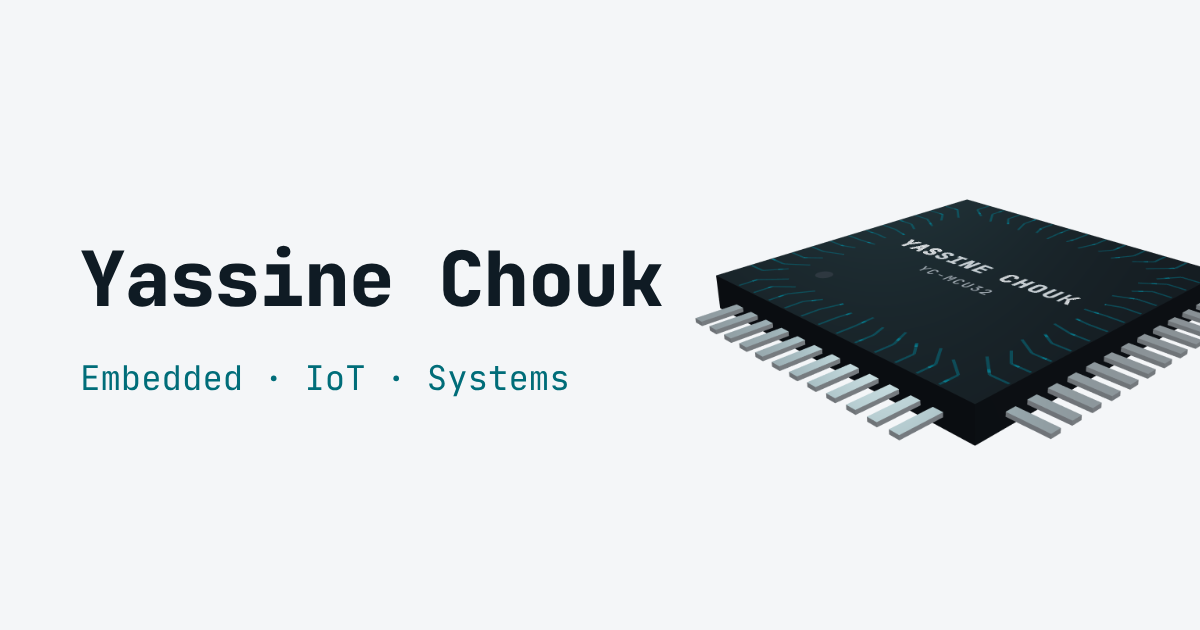
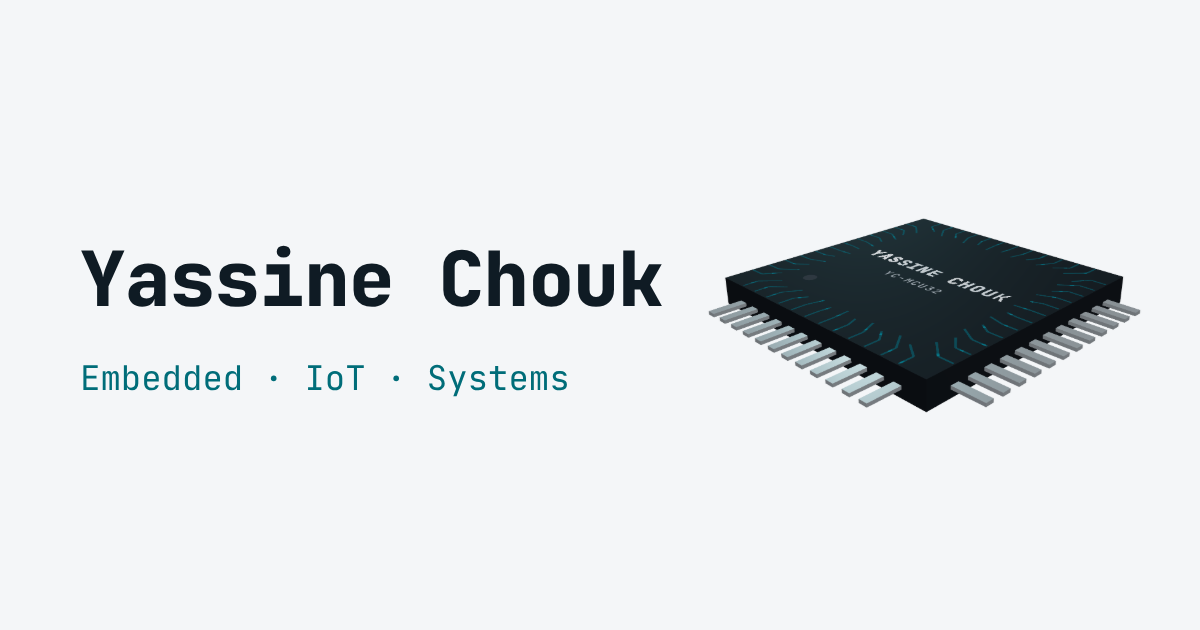
fix: theme polish (first-frame trace mode, drawn-colour contrast test, og image crop)
Claude-Session: https://claude.ai/code/session_019yJZtfDkjAxfPDcebiWnr3

Changed region(s): [[0.5858, 0.3016, 1.0, 0.7238], [0.7092, 0.5127, 0.74, 0.5429]]

diff --git a/src/scene/chip/palette.test.ts b/src/scene/chip/palette.test.ts
@@ -1,7 +1,6 @@
 import { describe, expect, it } from 'vitest'
-import { THEME_BACKGROUND, type Theme } from '../../state/themeStore'
+import type { Theme } from '../../state/themeStore'
 import { contrastRatio } from '../../styles/contrast'
-import { readTokens } from '../../test/tokens'
 import { scenePalette } from './palette'
 
 const THEMES: Theme[] = ['light', 'dark']
@@ -23,14 +22,44 @@ describe('scenePalette', () => {
     expect(scenePalette(theme).dieBlocks).toHaveLength(6)
   })
 
-  it.each(THEMES)('the %s accent is >= 3:1 against the page background', (theme) => {
-    expect(contrastRatio(scenePalette(theme).accent, THEME_BACKGROUND[theme])).toBeGreaterThanOrEqual(3)
+  it('carries only colours the scene draws (no unused page accent/background)', () => {
+    for (const theme of THEMES) {
+      expect(scenePalette(theme)).not.toHaveProperty('accent')
+      expect(scenePalette(theme)).not.toHaveProperty('background')
+    }
   })
 
-  it.each(THEMES)('the %s scene accent and background match tokens.css', (theme) => {
-    const tokens = readTokens()[theme]
-    expect(scenePalette(theme).accent).toBe(tokens['--accent'].toLowerCase())
-    expect(scenePalette(theme).background).toBe(tokens['--bg'].toLowerCase())
+  it.each(THEMES)('%s: traces, the lit pin and the pins keep >= 3:1 on the package top they are drawn on', (theme) => {
+    const p = scenePalette(theme)
+    for (const key of ['traces', 'pinHighlight', 'pins'] as const) {
+      expect(contrastRatio(p[key], p.packageBody), key).toBeGreaterThanOrEqual(3)
+    }
+  })
+
+  it.each(THEMES)('%s: block edges keep >= 3:1 on every block', (theme) => {
+    const p = scenePalette(theme)
+    for (const block of p.dieBlocks) expect(contrastRatio(p.dieEdge, block), block).toBeGreaterThanOrEqual(3)
+  })
+
+  it.each(THEMES)('%s: each die block stands out >= 3:1 from the die base, by its fill or its edge', (theme) => {
+    const p = scenePalette(theme)
+    for (const block of p.dieBlocks) {
+      const best = Math.max(contrastRatio(block, p.dieBase), contrastRatio(p.dieEdge, p.dieBase))
+      expect(best, block).toBeGreaterThanOrEqual(3)
+    }
+  })
+
+  it('light: the drawn colours are distinct and the active block is >= 3:1 on the die base', () => {
+    const p = scenePalette('light')
+    const drawn = [p.traces, p.pinHighlight, p.pins, p.packageBody, p.dieBase, p.dieBlockActive, ...p.dieBlocks]
+    expect(new Set(drawn.map((c) => c.toLowerCase())).size).toBe(drawn.length)
+    expect(contrastRatio(p.dieBlockActive, p.dieBase)).toBeGreaterThanOrEqual(3)
+  })
+
+  it('dark: the active block is lit by its glow (same body colour, stronger emissive)', () => {
+    const p = scenePalette('dark')
+    expect(p.dieGlowActive).toBeGreaterThan(p.dieGlowIdle)
+    expect(new Set([p.traces, p.pins, p.packageBody, p.dieBase, p.dieBlocks[0]]).size).toBe(5)
   })
 
   it.each(THEMES)('the %s engraved label is readable on the package (>= 3:1)', (theme) => {
@@ -40,7 +69,7 @@ describe('scenePalette', () => {
 
   it('the dark palette keeps the original scene colours', () => {
     const p = scenePalette('dark')
-    expect(p.accent).toBe('#00e5ff')
+    expect(p.traces).toBe('#00e5ff')
     expect(p.packageBody).toBe('#15191f')
     expect(p.packageDot).toBe('#2a3038')
     expect(p.pins).toBe('#9aa3ad')

diff --git a/src/scene/chip/palette.ts b/src/scene/chip/palette.ts
@@ -1,11 +1,7 @@
-import { THEME_BACKGROUND, type Theme } from '../../state/themeStore'
+import type { Theme } from '../../state/themeStore'
 
 /** Every colour (and the few light levels) the 3D scene uses, per theme. Pure data. */
 export type ScenePalette = {
-  /** Page colour behind the transparent canvas (`--bg`). */
-  background: string
-  /** Matches the CSS `--accent` of the theme. */
-  accent: string
   /** Trace ribbons and their signal pulses. */
   traces: string
   /** `additive` glows on a dark page; `normal` keeps the traces solid teal on a light one. */
@@ -43,8 +39,6 @@ const LIGHT_ACCENT = '#006d79'
 const PALETTES: Record<Theme, ScenePalette> = {
   // The original look: a near-black chip glowing cyan on a dark page.
   dark: {
-    background: THEME_BACKGROUND.dark,
-    accent: DARK_ACCENT,
     traces: DARK_ACCENT,
     traceBlending: 'additive',
     packageBody: '#15191f',
@@ -71,8 +65,6 @@ const PALETTES: Record<Theme, ScenePalette> = {
   // A graphite package with silver leads and solid teal traces on a cool light page; the die
   // blocks are light silicon tints so each one reads on its own, the active one turns teal.
   light: {
-    background: THEME_BACKGROUND.light,
-    accent: LIGHT_ACCENT,
     traces: '#1fb3bf',
     traceBlending: 'normal',
     packageBody: '#2b3138',

diff --git a/src/scene/chip/Traces.tsx b/src/scene/chip/Traces.tsx
@@ -80,14 +80,15 @@ function buildTraces(lite: boolean): BufferGeometry {
 /** Glowing traces on the package top, one per pin, with signal pulses travelling outward. */
 export function Traces({ lite, activePin, palette }: { lite: boolean; activePin: number | null; palette: ScenePalette }) {
   const geometry = useMemo(() => buildTraces(lite), [lite])
-  // Created once; a theme change only rewrites the colour and mode uniforms in the effect below.
-  const [uniforms] = useState(() => createPulseUniforms(palette.traces))
+  const opaque = palette.traceBlending === 'normal'
+  // Created once in the current theme's mode, so the first frame matches the blending; a theme
+  // change only rewrites the colour and mode uniforms in the effect below.
+  const [uniforms] = useState(() => createPulseUniforms(palette.traces, opaque))
   const material = useRef<ShaderMaterial>(null)
   const boot = useRef({ section: getTour().activeSection, start: -Infinity })
 
   useEffect(() => () => geometry.dispose(), [geometry])
 
-  const opaque = palette.traceBlending === 'normal'
   useEffect(() => {
     if (!material.current) return
     const u = material.current.uniforms as PulseUniforms

diff --git a/src/scene/Scene.tsx b/src/scene/Scene.tsx
@@ -1,5 +1,5 @@
 import { Canvas } from '@react-three/fiber'
-import { useEffect, useState } from 'react'
+import { useEffect, useMemo, useState } from 'react'
 import { useTheme } from '../state/themeStore'
 import { waypoints } from './cameraPath'
 import { Chip } from './chip/Chip'
@@ -14,7 +14,8 @@ const isLite = (): boolean =>
 const isHidden = (): boolean => typeof document !== 'undefined' && document.hidden
 
 function Lights() {
-  const p = scenePalette(useTheme())
+  const theme = useTheme()
+  const p = useMemo(() => scenePalette(theme), [theme])
   return (
     <>
       <ambientLight intensity={p.ambientLight} />

diff --git a/src/scene/shaders/pulse.ts b/src/scene/shaders/pulse.ts
@@ -60,12 +60,13 @@ export type PulseUniforms = {
   uOpaque: { value: number }
 }
 
-export function createPulseUniforms(accent: string): PulseUniforms {
+/** `opaque` picks the light-theme mode (normal blending) from the very first frame. */
+export function createPulseUniforms(accent: string, opaque = false): PulseUniforms {
   return {
     uTime: { value: 0 },
     uAccent: { value: new Color(accent) },
     uActive: { value: -1 },
     uBoot: { value: -1 },
-    uOpaque: { value: 0 },
+    uOpaque: { value: opaque ? 1 : 0 },
   }
 }

diff --git a/src/sections/ThemeToggle.tsx b/src/sections/ThemeToggle.tsx
@@ -21,8 +21,9 @@ function SunIcon() {
 export default function ThemeToggle() {
   const theme = useTheme()
   const next = theme === 'light' ? 'dark' : 'light'
+  const label = `Switch to ${next} theme`
   return (
-    <button type="button" className="theme-toggle" aria-label={`Switch to ${next} theme`} onClick={toggleTheme}>
+    <button type="button" className="theme-toggle" aria-label={label} title={label} onClick={toggleTheme}>
       {next === 'dark' ? <MoonIcon /> : <SunIcon />}
     </button>
   )

diff --git a/src/sections/ThemeToggle.test.tsx b/src/sections/ThemeToggle.test.tsx
@@ -13,6 +13,7 @@ describe('ThemeToggle', () => {
     render(<ThemeToggle />)
     const button = screen.getByRole('button', { name: 'Switch to dark theme' })
     expect(button).toHaveAttribute('type', 'button')
+    expect(button).toHaveAttribute('title', 'Switch to dark theme')
     const svg = button.querySelector('svg')
     expect(svg).not.toBeNull()
     expect(svg).toHaveAttribute('aria-hidden', 'true')

diff --git a/src/scene/shaders/pulse.test.ts b/src/scene/shaders/pulse.test.ts
@@ -17,4 +17,9 @@ describe('createPulseUniforms', () => {
     expect(u.uOpaque.value).toBe(0)
     expect(u.uAccent.value.getHexString()).toBe('00e5ff')
   })
+
+  it('honours the initial opaque flag, so the first frame already uses the right mode', () => {
+    expect(createPulseUniforms('#1fb3bf', true).uOpaque.value).toBe(1)
+    expect(createPulseUniforms('#00e5ff', false).uOpaque.value).toBe(0)
+  })
 })

diff --git a/README.md b/README.md
@@ -78,7 +78,7 @@ The site always opens in the **light** theme, whatever the visitor's system pref
 - `index.html` ships `<html data-theme="light">` and the light `theme-color`, so there is no flash. `src/main.tsx` calls `startThemeSync()`, which keeps `data-theme` and the `theme-color` meta in step with the store.
 - CSS colours live only in `src/styles/tokens.css`: a shared `:root` block (fonts, radius, spacing), a light block (`:root, :root[data-theme='light']`) and a dark block (`:root[data-theme='dark']`). Every colour in `global.css` is a `var(--token)` (or a `color-mix` of one); a test fails on any raw colour outside `tokens.css`, on a token missing from either theme, or on a text pair under 4.5:1 (graphics under 3:1).
 - The 3D scene takes its colours from `src/scene/chip/palette.ts` (`scenePalette(theme)`): package, pins, die blocks, traces, label and lights for each theme. The scene reads the theme from the store and updates its materials in place; the camera path and the package fade are the same in both themes.
-- Page backgrounds are in `THEME_BACKGROUND` in `src/state/themeStore.ts` (the `theme-color` value); a test keeps them equal to `--bg` in `tokens.css`, and the scene accent equal to `--accent`.
+- Page backgrounds are in `THEME_BACKGROUND` in `src/state/themeStore.ts` (the `theme-color` value); a test keeps them equal to `--bg` in `tokens.css`.
 - Images per theme: the static fallback is `public/chip-fallback-light.png` in light and `public/chip-fallback.png` in dark (both are screenshots of the real scene at the hero stop); `public/og-image.png` (the link preview) shows the light chip.
 
 ## Changing the accent color
@@ -86,7 +86,7 @@ The site always opens in the **light** theme, whatever the visitor's system pref
 These places carry the colour and must match:
 
 1. `--accent` in `src/styles/tokens.css`, once per theme (all CSS derives from it, including tints via `color-mix`). Light is a deep teal (`#006d79`, readable on white), dark is cyan (`#00e5ff`).
-2. `accent` (and the related trace, highlight and edge colours) for each theme in `src/scene/chip/palette.ts`; a test checks it against `--accent`.
+2. The accent-derived scene colours (traces, lit pin, die edges and glow, rim light) for each theme in `src/scene/chip/palette.ts` (`DARK_ACCENT` / `LIGHT_ACCENT`); a test checks that each one keeps 3:1 against the surface it is drawn on.
 3. `public/favicon.svg` (cyan `#00e5ff` on a dark square, which reads on light and dark tabs alike; hard-coded in the SVG)
 4. `public/og-image.png` (a raster image of the light theme; regenerate it)
 
